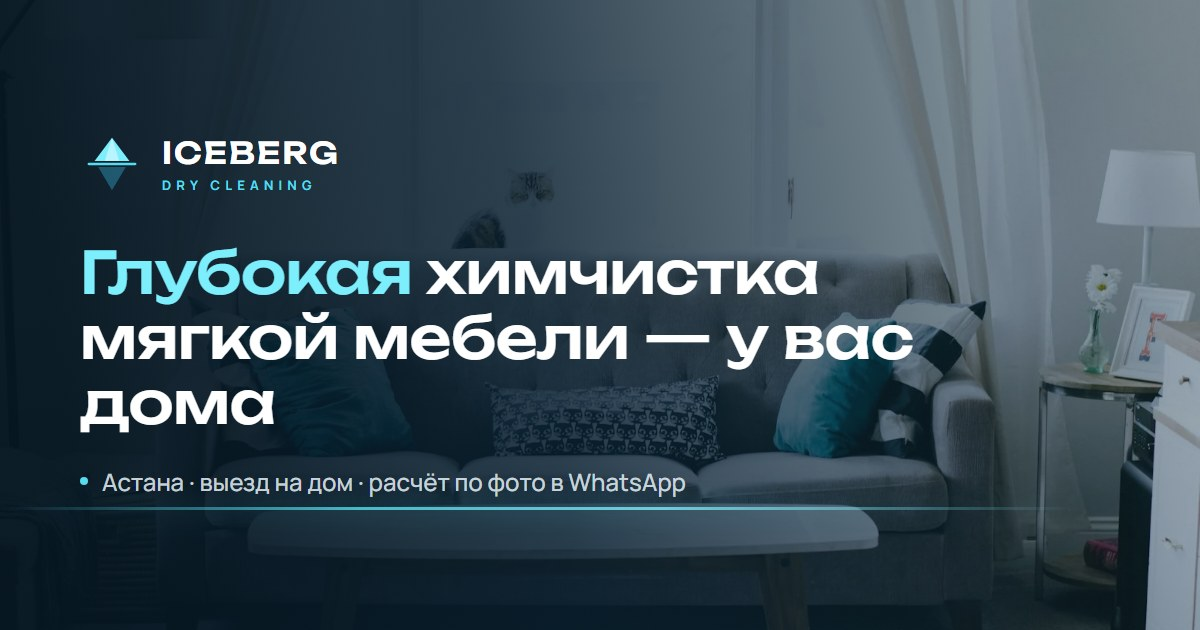
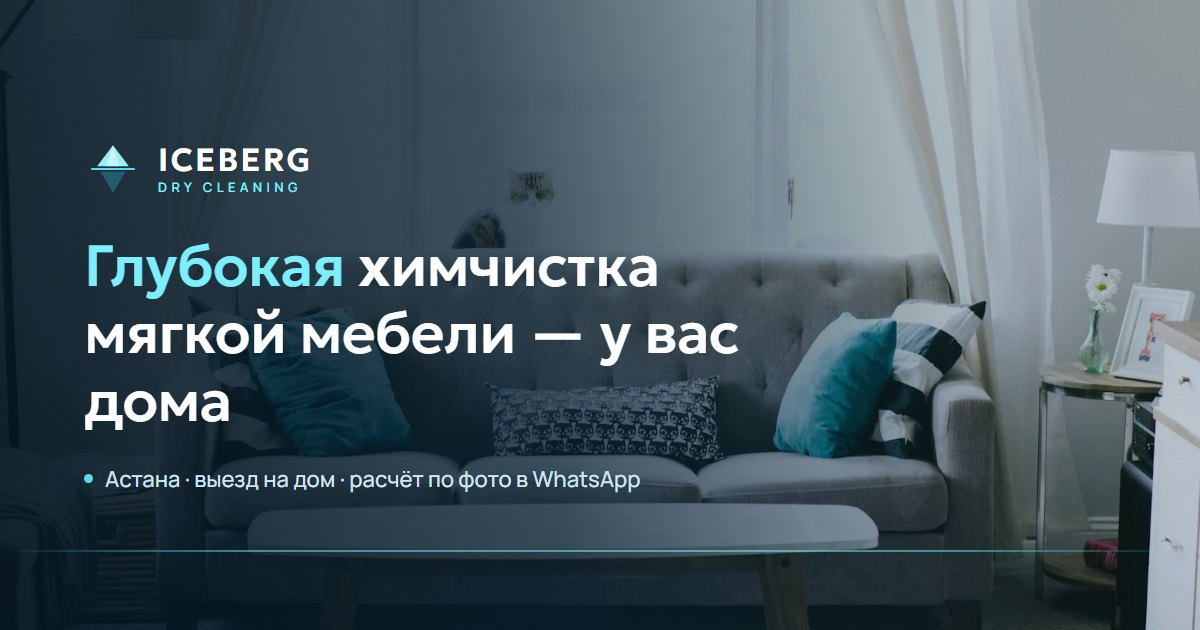
Дисплейный шрифт Unbounded -> Geologica: у Unbounded нет казахских глифов
Буквы ә ғ қ ң ө ұ ү һ і отсутствуют в Unbounded и падали в системный serif —
казахская версия «колбасилась». Geologica покрывает весь набор.

- заменён --font-d и запрос Google Fonts
- казахский H1 сокращён до 3 строк (Geologica шире, текст рвался на 5)
- og-image перерисован в новом шрифте

diff --git a/index.html b/index.html
@@ -26,10 +26,10 @@
 
   <link rel="preconnect" href="https://fonts.googleapis.com">
   <link rel="preconnect" href="https://fonts.gstatic.com" crossorigin>
-  <link href="https://fonts.googleapis.com/css2?family=Manrope:wght@400;500;600;700;800&family=Unbounded:wght@300;400;500;600;700&display=swap" rel="stylesheet">
+  <link href="https://fonts.googleapis.com/css2?family=Manrope:wght@400;500;600;700;800&family=Geologica:wght@300;400;500;600;700&display=swap" rel="stylesheet">
 
   <link rel="preload" as="image" href="assets/hero.webp" fetchpriority="high">
-  <link rel="stylesheet" href="styles.css?v=3">
+  <link rel="stylesheet" href="styles.css?v=4">
 
   <script type="application/ld+json">
   {
@@ -504,6 +504,6 @@
     <svg viewBox="0 0 24 24" fill="currentColor" aria-hidden="true"><path d="M12 2a10 10 0 0 0-8.6 15.1L2 22l5.1-1.3A10 10 0 1 0 12 2Zm0 18.2a8.2 8.2 0 0 1-4.2-1.1l-.3-.2-3 .8.8-2.9-.2-.3A8.2 8.2 0 1 1 12 20.2Zm4.5-6.1c-.2-.1-1.5-.7-1.7-.8-.2-.1-.4-.1-.6.1-.2.2-.6.8-.8 1-.1.2-.3.2-.5.1a6.7 6.7 0 0 1-3.4-2.9c-.3-.4 0-.6.1-.8l.4-.5c.1-.2.2-.3.3-.5v-.5c0-.1-.6-1.4-.8-1.9-.2-.5-.4-.4-.6-.4h-.5c-.2 0-.5.1-.7.3-.2.3-.9.9-.9 2.2s.9 2.5 1.1 2.7c.1.2 1.8 2.8 4.4 3.9.6.3 1.1.4 1.5.5.6.2 1.2.2 1.6.1.5-.1 1.5-.6 1.7-1.2.2-.6.2-1.1.1-1.2l-.4-.2Z"/></svg>
   </a>
 
-  <script src="script.js?v=3" defer></script>
+  <script src="script.js?v=4" defer></script>
 </body>
 </html>

diff --git a/script.js b/script.js
@@ -336,8 +336,8 @@
 
     /* первый экран */
     hero_kick: '<span class="pulse-dot" aria-hidden="true"></span>Астана · үйге барып тазалаймыз',
-    hero_h1: '<span class="hero__line">Жұмсақ жиһазды <i>терең</i></span>' +
-             '<span class="hero__line">химиялық тазалау —</span>' +
+    hero_h1: '<span class="hero__line">Жұмсақ жиһазды</span>' +
+             '<span class="hero__line"><i>терең</i> тазалау —</span>' +
              '<span class="hero__line hero__line--accent">үйіңізде</span>',
     hero_sub: "Дивандар, матрастар, кілемдер және сәби арбалары. Америкалық эко-химия, Германия мен Италия " +
               "экстракторлары — кірді қаптаманың бетіне жағып тастамай, толтырғыштың тереңінен шығарамыз.",

diff --git a/styles.css b/styles.css
@@ -16,7 +16,9 @@
   --cyan-l:  #7deefc;
   --cyan-d:  #0e9db5;
   --gold:    #e8b86a;
-  --font-d:  "Unbounded", "Arial Black", sans-serif;
+  /* дисплейный шрифт обязан покрывать казахские ә ғ қ ң ө ұ ү һ і.
+     Unbounded их НЕ содержит — буквы падали в системный serif. Geologica покрывает. */
+  --font-d:  "Geologica", "Segoe UI", "Arial Black", sans-serif;
   --font-t:  "Manrope", "Segoe UI", sans-serif;
   --radius:  20px;
   --header-h: 72px;
